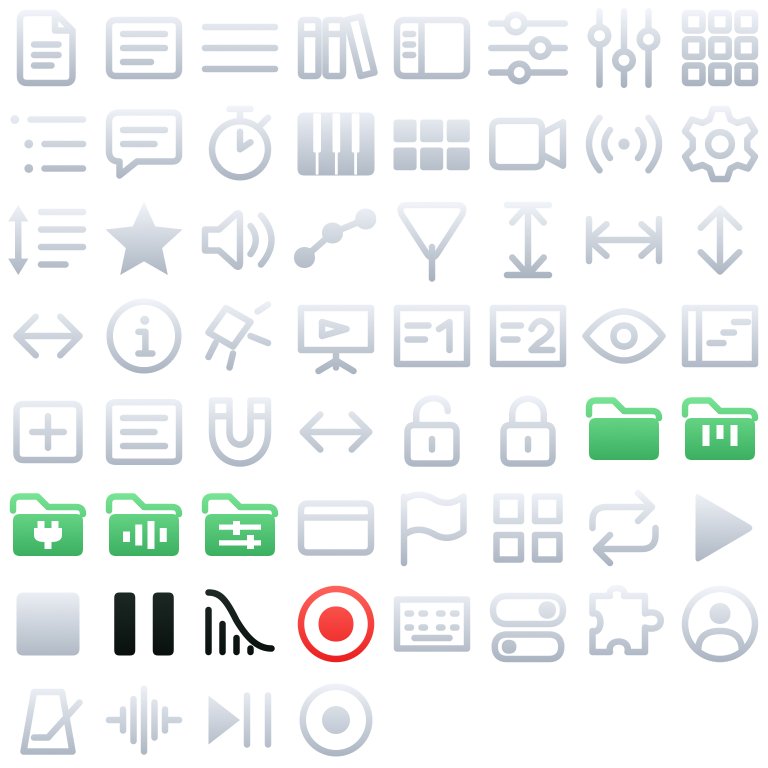
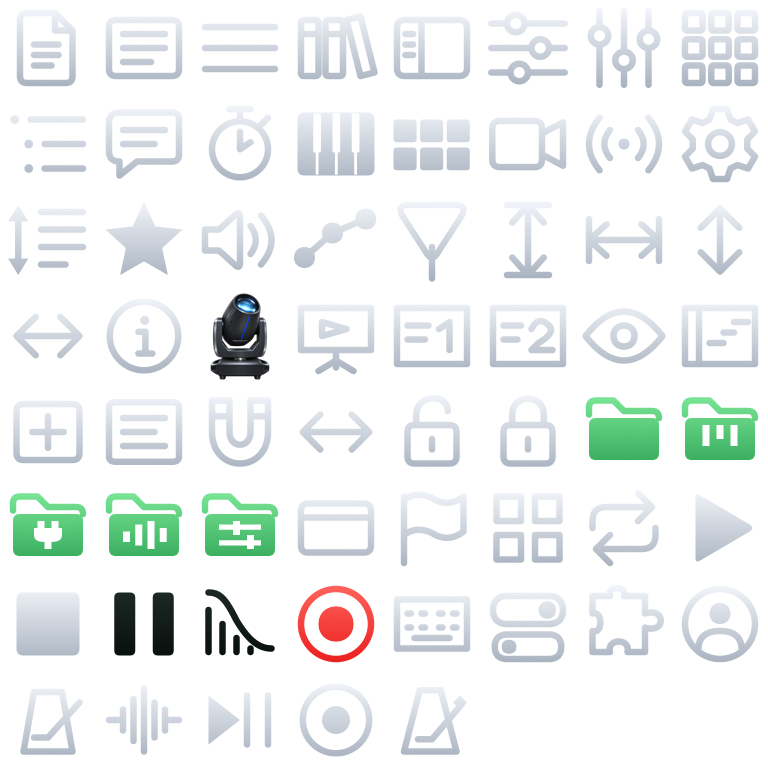
Share the grandMA2 moving head, transport controls and dark purple tablet and desktop panel

Changed region(s): [[0.25, 0.375, 0.375, 0.5], [0.5, 0.9062, 0.625, 1.0]]

diff --git a/JarasLive/Apple/Shared/TransportView.swift b/JarasLive/Apple/Shared/TransportView.swift
@@ -355,18 +355,11 @@ private struct TransportDisplaysLive<Actions: View, Playback: View>: View {
 
     #if os(macOS)
     private var desktopEditControls: some View {
-        let active = show.allTrackAutomationLanesVisible
-        return HStack(spacing: 3) {
+        HStack(spacing: 3) {
             TimelineEditButton(show: show, key: TimelineEditPreferences.desktop, width: keyWidth,
-                               height: TransportControlMetrics.playbackHeight, idleColor: Color(hex: 0x454545), bordered: false)
-            Button { show.toggleAllTrackAutomationLanes() } label: {
-                ControlIcon(name: "automationLanes", active: active, size: 17)
-            }.buttonStyle(TransportButtonStyle(color: active ? JarasTheme.green : Color(hex: 0x454545),
-                active: active, inactiveOpacity: 1, width: TransportControlMetrics.envelopeWidth,
-                height: TransportControlMetrics.playbackHeight, bordered: false))
-                .accessibilityLabel("Track envelopes").accessibilityIdentifier("track-envelopes")
-                .accessibilityAddTraits(active ? .isSelected : [])
-                .disabled(!show.canToggleAllTrackAutomationLanes)
+                               height: TransportControlMetrics.playbackHeight)
+            TransportEnvelopeButton(show: show, width: TransportControlMetrics.envelopeWidth,
+                                    height: TransportControlMetrics.playbackHeight)
         }.fixedSize()
     }
     #endif
@@ -465,8 +458,7 @@ private struct TransportDisplaysLive<Actions: View, Playback: View>: View {
         .background {
             #if os(macOS)
             RoundedRectangle(cornerRadius: 7)
-                .fill(LinearGradient(colors: interfaceTheme == .dark ? [interfaceTheme.background, interfaceTheme.background] : JarasTheme.desktopTransportGradient,
-                                     startPoint: .top, endPoint: .bottom))
+                .fill(LinearGradient(colors: JarasTheme.workspaceTransportGradient, startPoint: .top, endPoint: .bottom))
             #else
             RoundedRectangle(cornerRadius: 7)
                 .fill(LinearGradient(colors: interfaceTheme.transportGradient,
@@ -1365,12 +1357,9 @@ struct TimelineEditButton: View {
     let show: ShowController?
     let width: CGFloat
     let height: CGFloat
-    let idleColor: Color
-    let bordered: Bool
 
-    init(show: ShowController?, key: String, width: CGFloat, height: CGFloat, idleColor: Color, bordered: Bool) {
+    init(show: ShowController?, key: String, width: CGFloat, height: CGFloat) {
         self.show = show; self.width = width; self.height = height
-        self.idleColor = idleColor; self.bordered = bordered
         _enabled = AppStorage(wrappedValue: false, key)
     }
 
@@ -1380,10 +1369,27 @@ struct TimelineEditButton: View {
             if !enabled, let show, show.snapshot.transport.beatSeek != nil { show.send(.cancelBeatSeek) }
         } label: {
             ControlIcon(name: "editCursor", active: enabled, size: 17)
-        }.buttonStyle(TransportButtonStyle(color: enabled ? JarasTheme.green : idleColor,
-            active: enabled, inactiveOpacity: 1, width: width, height: height, bordered: bordered))
+        }.buttonStyle(TransportButtonStyle(color: enabled ? JarasTheme.green : Color(hex: 0x454545),
+            active: enabled, inactiveOpacity: 1, width: width, height: height, bordered: false))
             .accessibilityLabel("Edit").accessibilityIdentifier("editMode")
             .accessibilityAddTraits(enabled ? .isSelected : [])
+    }
+}
+
+struct TransportEnvelopeButton: View {
+    @ObservedObject var show: ShowController
+    let width: CGFloat
+    let height: CGFloat
+
+    var body: some View {
+        let active = show.allTrackAutomationLanesVisible
+        Button { show.toggleAllTrackAutomationLanes() } label: {
+            ControlIcon(name: "automationLanes", active: active, size: 17)
+        }.buttonStyle(TransportButtonStyle(color: active ? JarasTheme.green : Color(hex: 0x454545),
+            active: active, inactiveOpacity: 1, width: width, height: height, bordered: false))
+            .accessibilityLabel("Track envelopes").accessibilityIdentifier("track-envelopes")
+            .accessibilityAddTraits(active ? .isSelected : [])
+            .disabled(!show.canToggleAllTrackAutomationLanes)
     }
 }
 
@@ -1422,15 +1428,18 @@ struct TransportButtonStyle: ButtonStyle {
 }
 struct TransportPreview: PreviewProvider { static var previews: some View { TransportView(show: try! AppContainer(preview: true).show).frame(width: 980) } }
 
-private struct MetronomeModeButton: View {
+struct MetronomeModeButton: View {
     @ObservedObject private var settings = MetronomeSettings.shared
+    let width: CGFloat
     private var mode: Int { min(2, max(0, settings.mode)) }
     private var label: String { ["A-B", "A", "B"][mode] }
+
+    init(width: CGFloat = 32) { self.width = width }
 
     var body: some View {
         Button { settings.mode = (mode + 1) % 3 } label: { Text(verbatim: label) }
             .buttonStyle(TransportButtonStyle(color: Color(hex: 0x454545), inactiveOpacity: 1,
-                fontSize: 10, width: 32, height: TransportControlMetrics.metronomeButtonHeight, bordered: false))
+                fontSize: 10, width: width, height: TransportControlMetrics.metronomeButtonHeight, bordered: false))
             .accessibilityLabel("Click mode").accessibilityValue(label)
     }
 }
@@ -1441,16 +1450,12 @@ private struct MetronomeControl: View {
     @State private var configuring = false
     var body: some View { control }
     private var control: some View {
-        Button { settings.enabled.toggle() } label: { Image(systemName: "metronome") }
-            #if os(macOS)
+        Button { settings.enabled.toggle() } label: {
+            ControlIcon(name: "metronome", active: settings.enabled, size: 17)
+        }
             .buttonStyle(TransportButtonStyle(color: settings.enabled ? JarasTheme.yellow : Color(hex: 0x454545),
                 active: settings.enabled, inactiveOpacity: 1, fontSize: TransportControlMetrics.font,
                 width: max(30, (buttonWidth / 2).rounded()), height: TransportControlMetrics.metronomeButtonHeight, bordered: false))
-            #else
-            .buttonStyle(TransportButtonStyle(color: settings.enabled ? JarasTheme.yellow : JarasTheme.panel,
-                active: settings.enabled, fontSize: TransportControlMetrics.font,
-                width: max(30, (buttonWidth / 2).rounded()), height: TransportControlMetrics.metronomeButtonHeight))
-            #endif
             .accessibilityLabel("Metronome").accessibilityValue(settings.enabled ? "On" : "Off")
             .jarasHelp("Metronome · Right-click to configure")
             .immediateRightClick { configuring = true }

diff --git a/JarasLive/scripts/generate-control-icons.swift b/JarasLive/scripts/generate-control-icons.swift
@@ -1,5 +1,6 @@
 // Run from the JarasLive root with swift scripts/generate-control-icons.swift.
 import AppKit
+import ImageIO
 
 let resources = URL(fileURLWithPath: FileManager.default.currentDirectoryPath).appendingPathComponent("Resources")
 let folder = resources.appendingPathComponent("ControlIcons")
@@ -32,12 +33,20 @@ func path(_ definition: String) -> CGPath {
 let tile = 96, columns = 8
 let width = columns * tile, height = ((rows.count + columns - 1) / columns) * tile
 let space = CGColorSpace(name: CGColorSpace.sRGB)!
+let movingHeadURL = resources.appendingPathComponent("ControlIconSources/StageLights.png")
+guard let movingHeadSource = CGImageSourceCreateWithURL(movingHeadURL as CFURL, nil),
+      let movingHead = CGImageSourceCreateImageAtIndex(movingHeadSource, 0, nil),
+      let movingHeadIndex = rows.firstIndex(where: { $0[0] == "stageLights" }) else {
+    fatalError("Missing the grandMA2 moving-head icon or its atlas slot")
+}
 for active in [false, true] {
     let ctx = CGContext(data: nil, width: width, height: height, bitsPerComponent: 8, bytesPerRow: width * 4,
                         space: space, bitmapInfo: CGImageAlphaInfo.premultipliedLast.rawValue)!
+    ctx.saveGState()
     ctx.translateBy(x: 0, y: CGFloat(height))
     ctx.scaleBy(x: CGFloat(tile) / 24, y: -CGFloat(tile) / 24)
     for (index, row) in rows.enumerated() {
+        if index == movingHeadIndex { continue }
         let name = row[0]
         ctx.saveGState()
         ctx.translateBy(x: CGFloat(index % columns * 24), y: CGFloat(index / columns * 24))
@@ -45,7 +54,7 @@ for active in [false, true] {
         ctx.translateBy(x: 1.5, y: 1.5)
         ctx.scaleBy(x: 0.875, y: 0.875)
         let outline = path(row[1]), filled = path(row[2])
-        let darkInk = ["pause", "fadeout"].contains(name) || (active && ["editCursor", "automationLanes", "lock", "loop", "record", "play", "stopall"].contains(name))
+        let darkInk = ["pause", "fadeout"].contains(name) || (active && ["editCursor", "automationLanes", "lock", "loop", "record", "play", "stopall", "metronome"].contains(name))
         let folder = name.hasPrefix("library.") || name == "folder.fill"
         let top: [CGFloat] = name == "record" && !active ? [1.0,0.39,0.36] : folder && !active ? [0.49,0.91,0.60] : darkInk ? [0.12,0.17,0.15] : active ? [0.68,1,0.78] : [0.95,0.96,0.98]
         let bottom: [CGFloat] = name == "record" && !active ? [0.92,0.12,0.12] : folder && !active ? [0.19,0.65,0.34] : darkInk ? [0.025,0.05,0.04] : active ? [0.26,0.90,0.48] : [0.66,0.70,0.75]
@@ -80,6 +89,18 @@ for active in [false, true] {
             ink(CGPath(rect: CGRect(x: 15.5, y: 3.5, width: 4, height: 4), transform: nil))
         }
         ctx.restoreGState()
+    }
+    ctx.restoreGState()
+    let cell = CGRect(x: movingHeadIndex % columns * tile,
+                      y: height - (movingHeadIndex / columns + 1) * tile, width: tile, height: tile)
+    let scale = CGFloat(tile - 4) / CGFloat(max(movingHead.width, movingHead.height))
+    let artSize = CGSize(width: CGFloat(movingHead.width) * scale, height: CGFloat(movingHead.height) * scale)
+    ctx.interpolationQuality = .high
+    ctx.draw(movingHead, in: CGRect(x: cell.midX - artSize.width / 2, y: cell.midY - artSize.height / 2,
+                                   width: artSize.width, height: artSize.height))
+    if active {
+        ctx.setFillColor(red: 0.44, green: 0.96, blue: 0.60, alpha: 1)
+        ctx.fillEllipse(in: CGRect(x: cell.maxX - 17, y: cell.minY + 6, width: 12, height: 12))
     }
     let bitmap = NSBitmapImageRep(cgImage: ctx.makeImage()!)
     try bitmap.representation(using: .png, properties: [:])!.write(to: folder.appendingPathComponent(active ? "controlsOn.png" : "controlsOff.png"))

diff --git a/JarasLive/Apple/Shared/DAWRemoteView.swift b/JarasLive/Apple/Shared/DAWRemoteView.swift
@@ -1280,7 +1280,6 @@ private struct TrackMixFeedbackPanel: View {
     @State private var liveLibraryWidth: Double?
     @AppStorage(WorkspaceLibrary.folderWidthKey, store: WorkspaceLayoutPreferences.storage)
     private var nativeLibraryFoldersWidth = WorkspaceLibrary.defaultFolderWidth
-    @ObservedObject private var nativeMetronome = MetronomeSettings.shared
     @AppStorage("jaras.ipad.parts.left.preferredWidth") private var nativeLeftPartsWidth = 240.0
     @AppStorage("jaras.ipad.vinhetas.open") private var nativeVinhetasOpen = false
     @State private var remoteVinhetasOpen = false
@@ -3168,12 +3167,8 @@ private struct TrackMixFeedbackPanel: View {
             }
             .padding(.horizontal, 6).padding(.vertical, 3)
             .background {
-                if local && nativeInterfaceTheme == .dark {
-                    RoundedRectangle(cornerRadius: 7).fill(nativeInterfaceTheme.background)
-                } else {
-                    RoundedRectangle(cornerRadius: 7)
-                        .fill(LinearGradient(colors: JarasTheme.desktopTransportGradient, startPoint: .top, endPoint: .bottom))
-                }
+                RoundedRectangle(cornerRadius: 7)
+                    .fill(LinearGradient(colors: JarasTheme.workspaceTransportGradient, startPoint: .top, endPoint: .bottom))
             }
             .overlay {
                 RoundedRectangle(cornerRadius: 7).strokeBorder(JarasInterfaceTheme.lightDark.transportBorder)
@@ -3305,18 +3300,10 @@ private struct TrackMixFeedbackPanel: View {
                     EmptyView()
                 }
             }
-            TimelineEditButton(show: localShow, key: TimelineEditPreferences.native, width: width, height: 28,
-                               idleColor: JarasTheme.panel, bordered: true)
+            TimelineEditButton(show: localShow, key: TimelineEditPreferences.native, width: width, height: 28)
                 .padding(.leading, 3)
             if let localShow {
-                let active = localShow.allTrackAutomationLanesVisible
-                Button { localShow.toggleAllTrackAutomationLanes() } label: {
-                    ControlIcon(name: "automationLanes", active: active, size: 17)
-                }.buttonStyle(TransportButtonStyle(color: active ? JarasTheme.green : JarasTheme.panel,
-                    active: active, inactiveOpacity: 1, width: min(28, width), height: 28))
-                    .accessibilityLabel("Track envelopes")
-                    .accessibilityAddTraits(active ? .isSelected : [])
-                    .disabled(!localShow.canToggleAllTrackAutomationLanes)
+                TransportEnvelopeButton(show: localShow, width: min(28, width), height: 28)
             }
         }.fixedSize()
     }
@@ -3326,9 +3313,7 @@ private struct TrackMixFeedbackPanel: View {
                 HStack(spacing: 10) {
                     if visible.contains(.metronome), let localShow {
                         HStack(spacing: 8) {
-                            Button(["A–B", "A", "B"][min(2, max(0, nativeMetronome.mode))]) {
-                                nativeMetronome.mode = (min(2, max(0, nativeMetronome.mode)) + 1) % 3
-                            }.buttonStyle(TransportButtonStyle(color: JarasTheme.panel, fontSize: 10, width: 30, height: 28))
+                            MetronomeModeButton(width: 30)
                             IpadAudioTransportButtons(show: localShow, configureMetronome: openMetronome, only: .metronome, controlWidth: 30)
                         }
                     }

diff --git a/JarasLive/Apple/Shared/IpadStandaloneWorkspace.swift b/JarasLive/Apple/Shared/IpadStandaloneWorkspace.swift
@@ -1488,8 +1488,11 @@ struct IpadDialogButtonStyle: ButtonStyle {
                 }
             }
             if only == nil || only == .metronome {
-            Button { metronome.enabled.toggle() } label: { Image(systemName: "metronome") }
-                .buttonStyle(TransportButtonStyle(color: metronome.enabled ? JarasTheme.yellow : JarasTheme.panel, active: metronome.enabled, fontSize: 12, width: controlWidth ?? 30, height: 28))
+            Button { metronome.enabled.toggle() } label: {
+                ControlIcon(name: "metronome", active: metronome.enabled, size: 17)
+            }.buttonStyle(TransportButtonStyle(color: metronome.enabled ? JarasTheme.yellow : Color(hex: 0x454545),
+                active: metronome.enabled, inactiveOpacity: 1, fontSize: TransportControlMetrics.font,
+                width: controlWidth ?? 30, height: TransportControlMetrics.metronomeButtonHeight, bordered: false))
                 .overlay {
                     if let configureMetronome {
                         IpadTapHoldTouchSurface(tap: { metronome.enabled.toggle() }, hold: configureMetronome)

diff --git a/JarasLive/Apple/Shared/Theme.swift b/JarasLive/Apple/Shared/Theme.swift
@@ -85,7 +85,7 @@ enum JarasTheme {
     static let accent = Color(hex: 0x79f59a)
     static let green = Color(hex: 0x69ed91)
     static let workspaceToolbar = Color(hex: 0x2a2a2a)
-    static let desktopTransportGradient = [Color(hex: 0x262626), Color(hex: 0x1a1a1a)]
+    static let workspaceTransportGradient = [Color(hex: 0x1d1029), Color(hex: 0x0b0710)]
     static let licenseTitleGreen = Color(hex: 0x54ff93)
     static let transportPlay = Color(hex: 0x24f06a)
     static let liveOffRed = Color(hex: 0xff3030)

diff --git a/JarasLive/Windows/Source/Workspace.cpp b/JarasLive/Windows/Source/Workspace.cpp
@@ -6481,9 +6481,8 @@ void Workspace::syncNativeTransport() {
         if (surfaceBounds.contains(model->getBounds())) {
             const auto panelColourAt = [&](int y) {
                 const auto proportion = (float)(y - surfaceBounds.getY()) / surfaceBounds.getHeight();
-                const bool dark = theme::background == theme::darkBackground;
-                const auto top = onTempoPanel ? theme::transportDetailTop : dark ? theme::background : theme::transportPanelTop;
-                const auto bottom = onTempoPanel ? theme::transportDetailBottom : dark ? theme::background : theme::transportPanelBottom;
+                const auto top = onTempoPanel ? theme::transportDetailTop : theme::transportPanelTop;
+                const auto bottom = onTempoPanel ? theme::transportDetailBottom : theme::transportPanelBottom;
                 return top.interpolatedWith(bottom, proportion).getARGB();
             };
             state.surface = panelColourAt(model->getY());
@@ -6521,7 +6520,7 @@ void Workspace::syncNativeTransport() {
         auto icon = model->getProperties()["leadingIcon"].toString();
         if (icon.isEmpty() && StringArray{"play", "pause", "loop", "record", "metronome"}.contains(id)) icon = id;
         state.icon = icon.toWideCharPointer();
-        static const StringArray pngIcons{"play","stopall","fadeout","pause","loop","record"};
+        static const StringArray pngIcons{"play","stopall","fadeout","pause","loop","record","metronome"};
         if (pngIcons.contains(icon)) {
             // Native transport HWNDs own their render targets. Share immutable PNG pixels between them.
             static const auto bitmaps = [] {
@@ -6634,9 +6633,8 @@ void Workspace::paint(Graphics &g) {
         g.setFont(durationFont);
         g.drawText(durationText, durationBounds, Justification::centred, false);
     }
-    if (theme::background == theme::darkBackground) g.setColour(theme::background);
-    else g.setGradientFill(ColourGradient(theme::transportPanelTop, 0, (float)transportDisplayBounds.getY(),
-                                         theme::transportPanelBottom, 0, (float)transportDisplayBounds.getBottom(), false));
+    g.setGradientFill(ColourGradient(theme::transportPanelTop, 0, (float)transportDisplayBounds.getY(),
+                                    theme::transportPanelBottom, 0, (float)transportDisplayBounds.getBottom(), false));
     g.fillRoundedRectangle(transportDisplayBounds.toFloat(), 7);
     g.setColour(theme::transportPanelBorder);
     g.drawRoundedRectangle(transportDisplayBounds.toFloat().reduced(.5f), 7, 1);

diff --git a/JarasLive/Windows/Source/Common.h b/JarasLive/Windows/Source/Common.h
@@ -126,7 +126,7 @@ inline constexpr uint32 darkBackgroundRGB = 0x0f0f0f;
 inline const Colour darkBackground{0xff000000u | darkBackgroundRGB};
 inline Colour background = darkBackground, panel = darkBackground, display = darkBackground, titlebar = darkBackground;
 inline Colour scrollRail{0xff1f1f1f}, homeBackground{0xff0f0f0f}, line{0xff444444}, secondary{0xffb9b9b9};
-inline const Colour transportPanelTop{0xff262626}, transportPanelBottom{0xff1a1a1a};
+inline const Colour transportPanelTop{0xff1d1029}, transportPanelBottom{0xff0b0710};
 inline const Colour transportPanelBorder{0xff505050};
 inline const Colour transportDetailTop{0xff1f1f1f}, transportDetailBottom{0xff1a1a1a}, transportDetailBorder{0xff3b3b3b};
 inline const Colour lightDarkBackground{0xff242424}, lightDarkPanel{0xff2b2b2b}, lightDarkDisplay{0xff202020};
